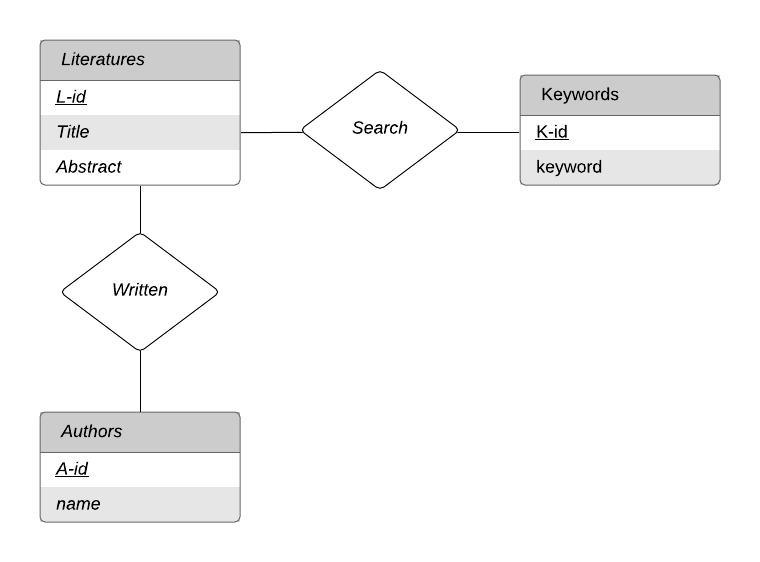
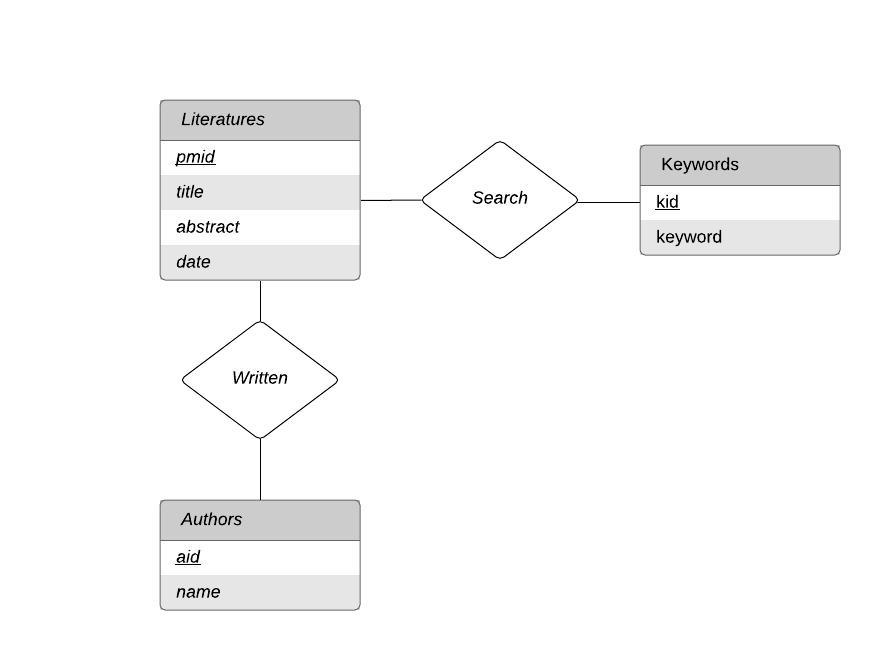
Updata a right ERD and Updata the url of the ERD

diff --git a/README.md b/README.md
@@ -1,6 +1,6 @@
 # CSCI 8876 Project
 ## Entity Relationship Diagram
-![Image of ERD](https://github.com/kcheng18/CSCI8876/ERD.jpeg)
+![Image of ERD](https://github.com/kcheng18/CSCI8876/blob/master/ERD.jpeg)
 
 ## Requestment:
 
